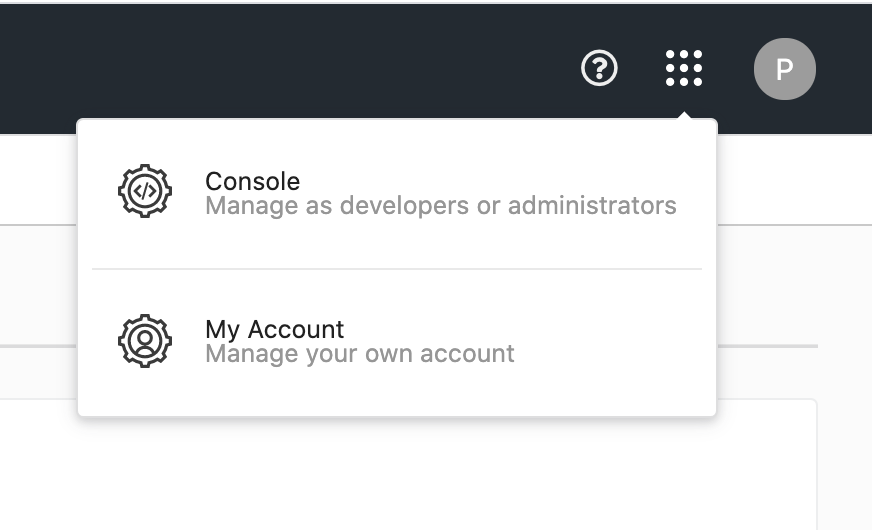
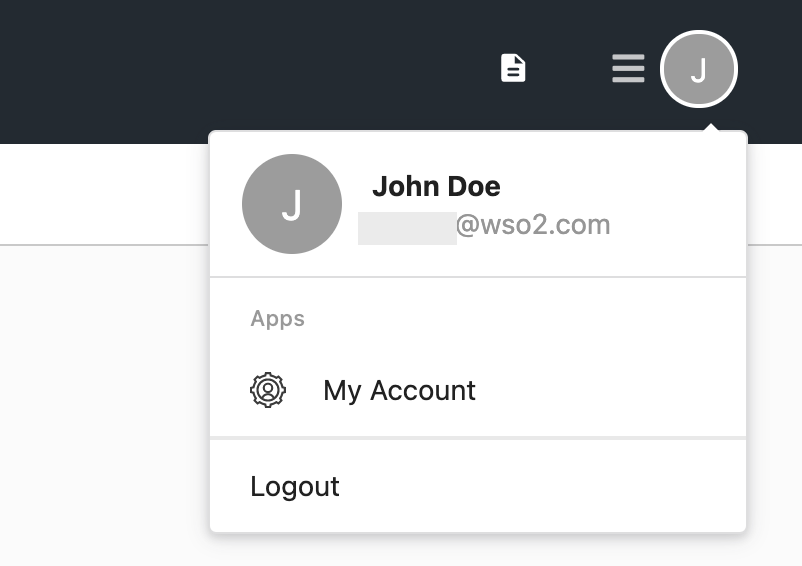
outdated image

diff --git a/docs/guides/your-asgardeo/asgardeo-self-service.md b/docs/guides/your-asgardeo/asgardeo-self-service.md
@@ -16,8 +16,8 @@ You can access the My Account portal using the following URL:
 
 You can also switch to My Account from the console as follows:
 
-1. On the [Asgardeo console](https://console.asgardeo.io), click **Apps** next to your profile icon.
-    <img :src="$withBase('/assets/img/guides/organization/self-service/myaccount/switch-to-myaccount.png')" width="500" alt="Switch to MyAccount from Console">
+1. On the [Asgardeo console](https://console.asgardeo.io), open the menu at the upper-right.
+    <img :src="$withBase('/assets/img/guides/organization/self-service/myaccount/switch-to-myaccount.png')" width="450" alt="Switch to MyAccount from Console">
 2. Select **My Account** to automatically sign in to your My Account portal.
 
 ## Update profile information
